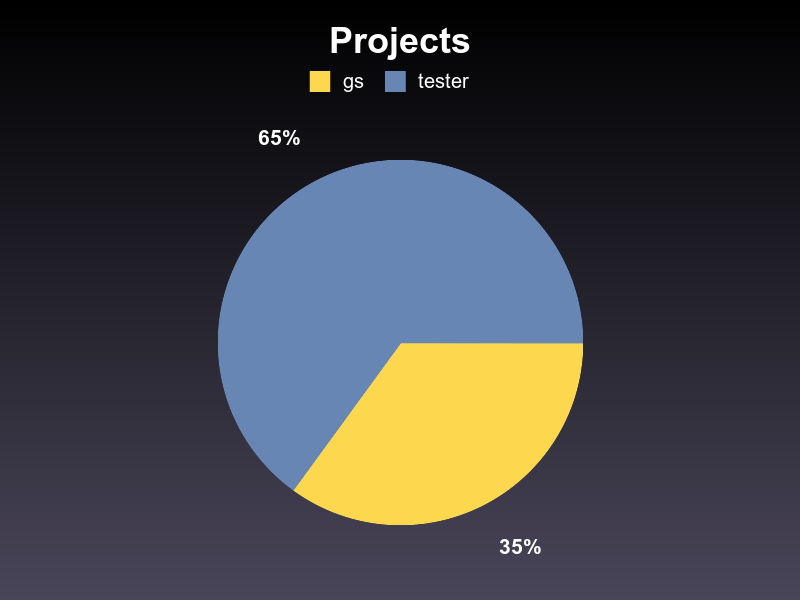
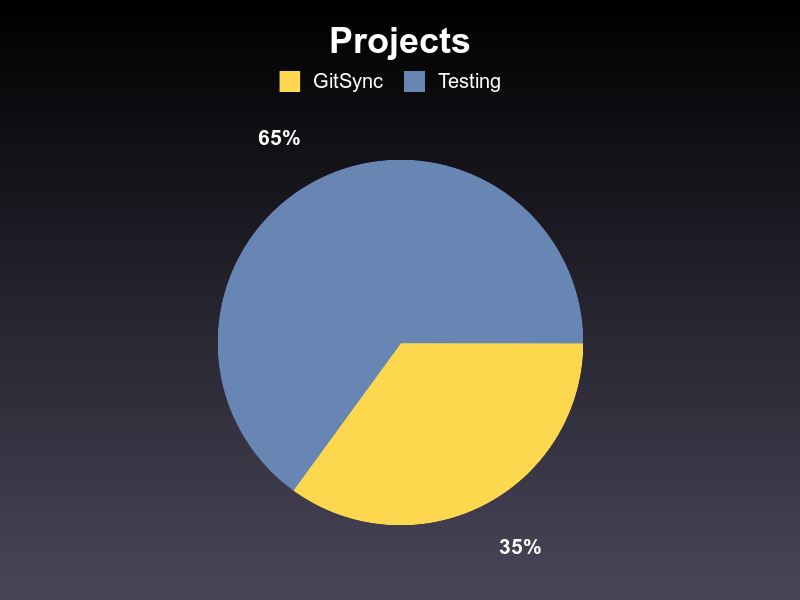
It works! Renamed everything from example to timesync

Changed region(s): [[0.3438, 0.12, 0.625, 0.18]]

diff --git a/assets/widgets/timesync/timesync.html b/assets/widgets/timesync/timesync.html
@@ -1,0 +1,19 @@
+<div id="timesync" ng-controller="TimesyncCtrl">
+    <h1 class="title">TimeSync</h1>
+    <div class='wrapper'>
+        <p class='label'>Top Users: </p>
+        <p class='label'>1.  {{ users[0][0] }} - {{ users[0][1] }}h</p>
+        <p class='label'>2.  {{ users[1][0] }} - {{ users[1][1] }}h</p>
+        <p class='label'>3.  {{ users[2][0] }} - {{ users[2][1] }}h</p>
+        <p class='label'>4.  {{ users[3][0] }} - {{ users[3][1] }}h</p>
+        <p class='label'>5.  {{ users[4][0] }} - {{ users[4][1] }}h</p>
+        <p class='label'>6.  {{ users[5][0] }} - {{ users[5][1] }}h</p>
+        <p class='label'>7.  {{ users[6][0] }} - {{ users[6][1] }}h</p>
+        <p class='label'>8.  {{ users[7][0] }} - {{ users[7][1] }}h</p>
+        <p class='label'>9.  {{ users[8][0] }} - {{ users[8][1] }}h</p>
+        <p class='label'>10. {{ users[9][0] }} - {{ users[9][1] }}h</p>
+        <img id='project_graph' src ='/assets/project_graph.png'>
+        <img id='time_graph' src ='/assets/time_graph.png'>
+    </div>
+</div>
+

diff --git a/assets/widgets/timesync/timesync.js b/assets/widgets/timesync/timesync.js
@@ -1,0 +1,17 @@
+var dashing = dashing || angular.module('dashing', []);
+
+dashing.controller('TimesyncCtrl', ['$scope',
+    function ($scope) {
+        'use strict';
+
+        $scope.$on('timesync', function (e, data) {
+            angular.extend($scope, data);
+        });
+    }
+])
+
+.directive('timesyncData', function() {
+    return {
+        restrict: 'E', templateUrl: '/assets/timesync/timesync.html'
+    }
+});

diff --git a/jobs/timesync.rb b/jobs/timesync.rb
@@ -1,0 +1,147 @@
+require 'sinatra'
+require 'gruff'
+require_relative 'rimesync/lib/rimesync.rb'
+require 'net/http'
+
+SCHEDULER.every '5s' do
+    # Allows real http connections
+    # May not be necessary in production
+    WebMock.disable!
+
+    # Auth with timesync through rimesync
+    ts = TimeSync.new(baseurl=settings.timesync['url'])
+    resp = ts.authenticate(username:settings.timesync['user'], password:settings.timesync['password'], auth_type:"password")
+
+    # Number of days to track things over
+    dayNumber = settings.timesync['time_length']
+
+    # Get the current time
+    # Need to get the dates for the last week
+    endTime = Time.now
+    # Start time is dayNumber days ago
+    # There are a lot of seconds in a week
+    startTime = (endTime - (dayNumber * 86400))
+
+    # Get the dates for the past dayNumber days
+    # Necessary for the Total Times graph
+    days = []
+    for i in 0..dayNumber
+        days[i] = (startTime + (86400 * i)).strftime("%Y-%m-%d")
+    end
+
+    # Construct the search query
+    query = {
+        'start' => [startTime.iso8601],
+        'end' => [endTime.iso8601]
+    }
+
+    # Get all the times from the past week
+    times = ts.get_times(query)
+
+    # Get the total time for each user that worked in the past week
+    user_times = Hash.new
+    times.each do |time|
+        # We want the duration in hours, not seconds
+        duration = time['duration'] / 3600
+        # If the key doesn't exist, make it, else update it
+        if user_times.key?(time['user'])
+            user_times[time['user']] = user_times[time['user']] + duration
+        else
+            user_times[time['user']] = duration
+        end
+    end
+
+    # Sort the users by total time worked and get the top 10
+    top_users = user_times.sort_by{|name, time| time}.reverse[0..10]
+    # Get their display name instead of their username
+    top_users.each do |user|
+        user[0] = ts.get_users(user[0])[0]['display_name']
+    end
+
+    # Get the total times for each project
+    # Since we're not looking at that in the chart it doesn't matter if it's in
+    # seconds
+    project_times = Hash.new
+    times.each do |time|
+       if project_times.key?(time['project'][0])
+           project_times[time['project'][0]] = project_times[time['project'][0]] + time['duration']
+       else
+           project_times[time['project'][0]] = time['duration']
+       end
+    end
+
+    # Get the project names instead of their slugs
+    # Uses two different hashes because you can't update the hash you're
+    # iterating on
+    name_times = Hash.new
+    project_times.each do |project|
+        name = ts.get_projects({'slug' => project[0]})[0]['name']
+        name_times[name] = project[1]
+    end
+    project_times = name_times
+
+    # Make the projects pie chart
+    project_graph = Gruff::Pie.new
+    project_graph.title = 'Projects'
+    # Put in the data: name and total time
+    project_times.each do |project|
+        project_graph.data(project[0], project[1])
+    end
+    project_graph.write("assets/images/project_graph.png")
+
+    # Get the total times for the week
+    total_times = Hash.new
+    times.each do |time|
+        # Hours, not seconds
+        duration = time['duration'] / 3600
+        # Add the times up based on day
+        days.each do |day|
+            if time['date_worked'] == day
+                # If the key doesn't exist, create it, otherwise update it
+                if total_times.key?(day)
+                    total_times[day] = total_times[day] + duration
+                else
+                    total_times[day] = duration
+                end
+            end
+        end
+    end
+
+    # Need to fill in days where nothing happened
+    full_times = Hash.new
+    days.each do |day|
+        total_times.each do |time|
+            if time[0] == day
+                full_times[day] = time[1]
+            end
+        end
+        if !full_times.key?(day)
+            full_times[day] = 0
+        end
+    end
+    total_times = full_times
+
+    # Make the line graph for the total times
+    time_graph = Gruff::Line.new
+    time_graph.title = 'Times'
+    # Make the labels for the graph
+    i = 0
+    days.each do |day|
+        time_graph.labels[i] = day[-5, 5]
+        i += 1
+    end
+
+    # Put in the data for the graph in an array
+    data = []
+    total_times.each do |time|
+        data << time[1]
+    end
+
+    # Add the data to the graph
+    time_graph.data('times', data)
+    time_graph.write("assets/images/time_graph.png")
+
+    # Send the users array to the html template
+    send_event('timesync', { users: top_users })
+    WebMock.enable!
+end
